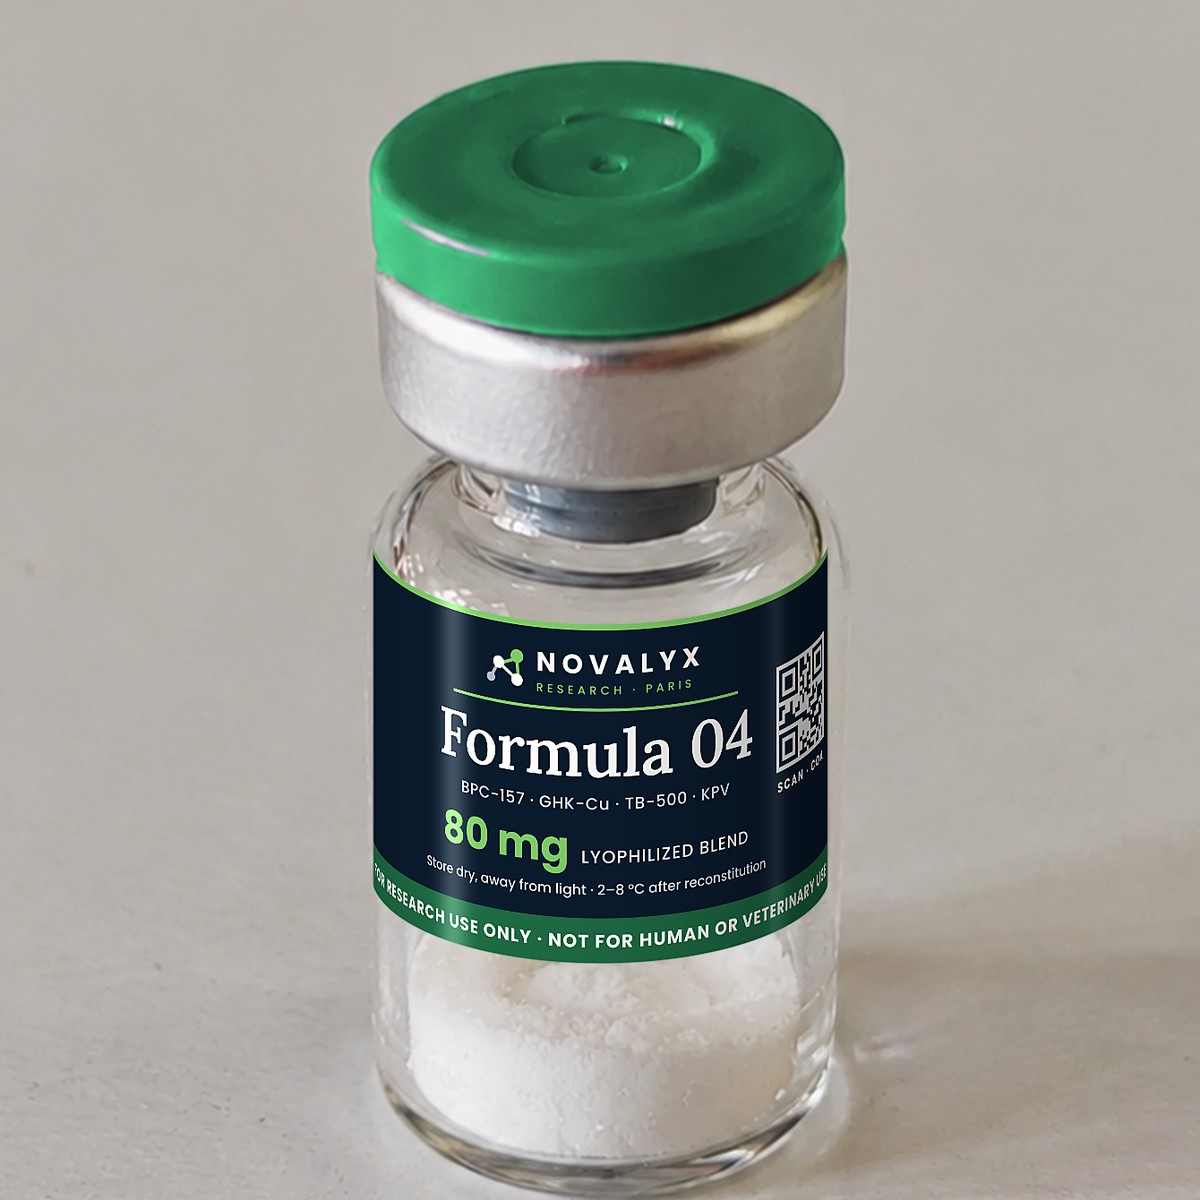
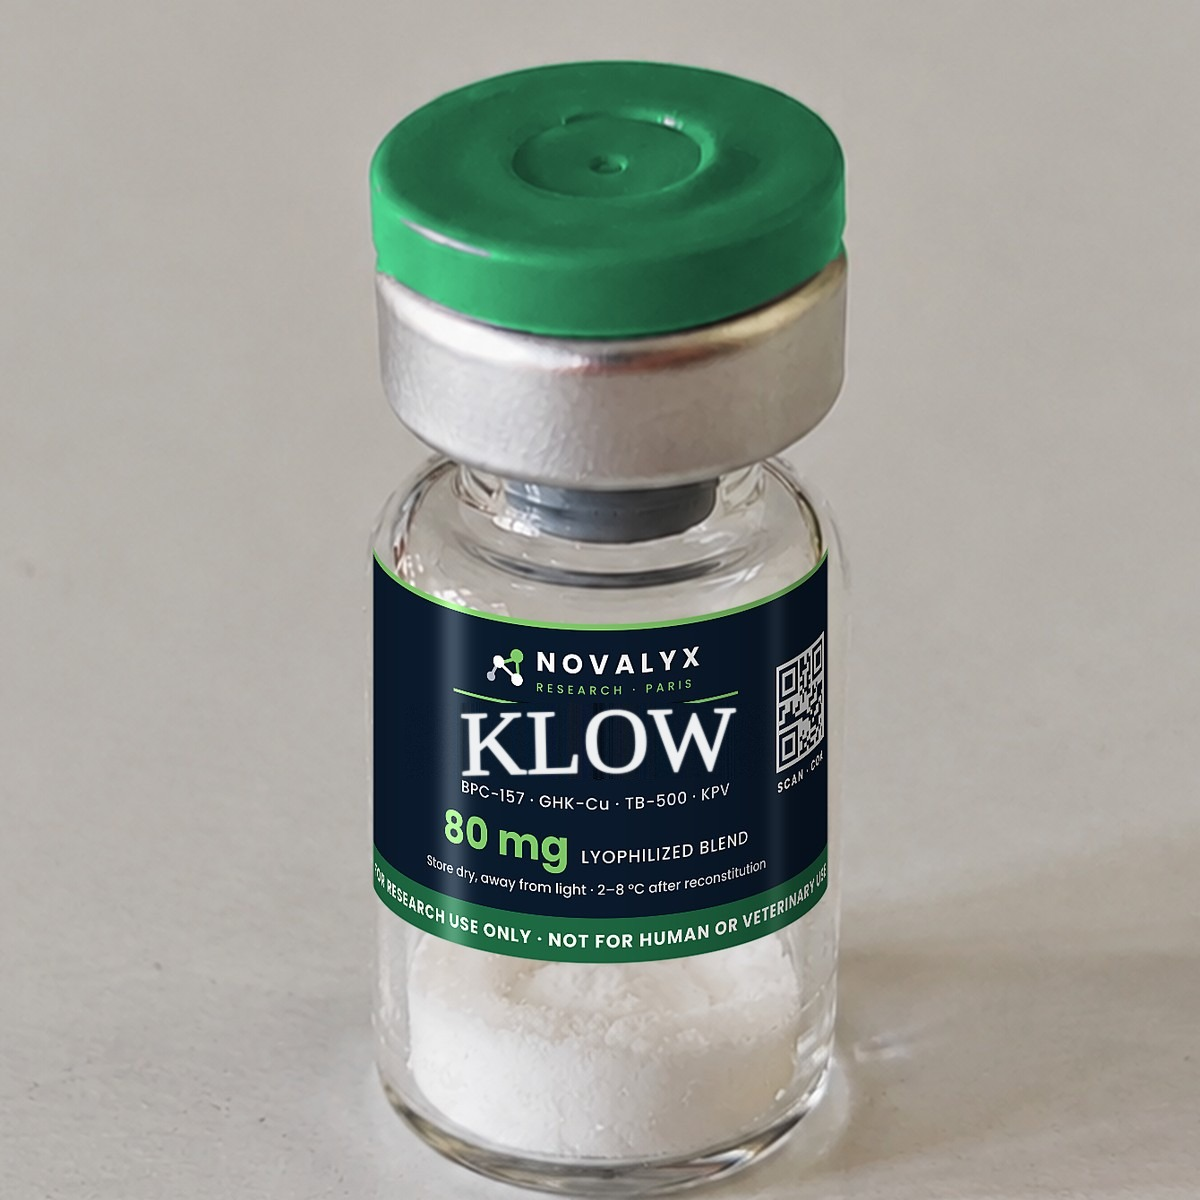
Noms des mélanges : GLOW, KLOW, PULSE, Twin Stack, CagriSema, S², TRIA (+ étiquettes, Formula 01 fusionnée dans Twin Stack)
Claude-Session: https://claude.ai/code/session_01PzS3BkrYWEr8UmzWCxH8az

Changed region(s): [[0.37, 0.5858, 0.6475, 0.6475]]

diff --git a/src/App.jsx b/src/App.jsx
@@ -985,30 +985,12 @@ const PRODUCTS = [
 
   /* ─────────── NOVALYX SIGNATURE BLENDS ─────────── */
   {
-    id: "formula01",
-    name: "Novalyx Formula 01",
-    tag: "REGENERATIVE RESEARCH BLEND",
-    category: "Signature Blends",
-    desc: "Novalyx Formula 01 is a proprietary research blend containing BPC-157 (10mg) and TB-500 (10mg) combined in a single lyophilized vial. Formulated for researchers investigating combined regenerative signalling pathways. New batches are submitted for independent analysis by Janoshik.",
-    desc_fr: "Novalyx Formula 01 est un mélange de recherche propriétaire contenant BPC-157 (10mg) et TB-500 (10mg) combinés dans un seul flacon lyophilisé. Formulé pour les chercheurs étudiant les voies de signalisation régénératives combinées. Les nouveaux lots sont soumis à une analyse indépendante par Janoshik.",
-    variants: [
-      { size: "10mg+10mg", price: 79.99 },
-    ],
-    commonSpecs: [
-      { label: "Composition", value: "BPC-157 10mg + TB-500 10mg" },
-      { label: "Format",      value: "Lyophilised vial" },
-      { label: "Purity",      value: "Janoshik HPLC (per batch)" },
-      { label: "Storage",     value: "Dry, room temperature, away from light before reconstitution; 2–8°C after reconstitution" },
-      { label: "COA",         value: "Janoshik (per batch)" },
-    ],
-  },
-  {
     id: "formula02",
-    name: "Novalyx Formula 02",
+    name: "PULSE",
     tag: "GH-RELEASING RESEARCH BLEND",
     category: "Signature Blends",
-    desc: "Novalyx Formula 02 is a proprietary research blend containing CJC-1295 (5mg, no DAC) and Ipamorelin (5mg) in a single lyophilized vial. Formulated for researchers investigating GH-releasing pathways in an integrated protocol.",
-    desc_fr: "Novalyx Formula 02 est un mélange de recherche propriétaire contenant CJC-1295 (5mg, sans DAC) et Ipamorelin (5mg) dans un seul flacon lyophilisé. Formulé pour les chercheurs étudiant les voies de libération de GH dans un protocole intégré.",
+    desc: "PULSE is a proprietary research blend containing CJC-1295 (5mg, no DAC) and Ipamorelin (5mg) in a single lyophilized vial. Formulated for researchers investigating GH-releasing pathways in an integrated protocol.",
+    desc_fr: "PULSE est un mélange de recherche propriétaire contenant CJC-1295 (5mg, sans DAC) et Ipamorelin (5mg) dans un seul flacon lyophilisé. Formulé pour les chercheurs étudiant les voies de libération de GH dans un protocole intégré.",
     variants: [
       { size: "5mg+5mg", price: 64.99 },
     ],
@@ -1022,11 +1004,11 @@ const PRODUCTS = [
   },
   {
     id: "formula03",
-    name: "Novalyx Formula 03",
+    name: "GLOW",
     tag: "REGENERATIVE TRIPLE BLEND",
     category: "Signature Blends",
-    desc: "Novalyx Formula 03 is our flagship triple-peptide research blend containing BPC-157 (10mg), GHK-Copper (50mg), and TB-500 (10mg) in a single lyophilized vial. Formulated for researchers investigating comprehensive regenerative signalling across multiple pathways simultaneously.",
-    desc_fr: "Novalyx Formula 03 est notre mélange de recherche phare à triple peptide contenant BPC-157 (10mg), GHK-Cuivre (50mg) et TB-500 (10mg) dans un seul flacon lyophilisé. Formulé pour les chercheurs étudiant la signalisation régénérative complète à travers plusieurs voies simultanément.",
+    desc: "GLOW is our flagship triple-peptide research blend containing BPC-157 (10mg), GHK-Copper (50mg), and TB-500 (10mg) in a single lyophilized vial. Formulated for researchers investigating comprehensive regenerative signalling across multiple pathways simultaneously.",
+    desc_fr: "GLOW est notre mélange de recherche phare à triple peptide contenant BPC-157 (10mg), GHK-Cuivre (50mg) et TB-500 (10mg) dans un seul flacon lyophilisé. Formulé pour les chercheurs étudiant la signalisation régénérative complète à travers plusieurs voies simultanément.",
     variants: [
       { size: "70mg total", price: 79.99 },
     ],
@@ -1062,11 +1044,11 @@ const PRODUCTS = [
   },
   {
     id: "formula04",
-    name: "Novalyx Formula 04",
+    name: "KLOW",
     tag: "COMPLETE RESEARCH COMPLEX",
     category: "Signature Blends",
-    desc: "Novalyx Formula 04 is our premium four-peptide research complex containing BPC-157 (10mg), GHK-Copper (50mg), TB-500 (10mg), and KPV (10mg) in a single lyophilized vial. The most comprehensive regenerative research blend in our catalog.",
-    desc_fr: "Novalyx Formula 04 est notre complexe de recherche premium à quatre peptides contenant BPC-157 (10mg), GHK-Cuivre (50mg), TB-500 (10mg) et KPV (10mg) dans un seul flacon lyophilisé. Le mélange de recherche régénératif le plus complet de notre catalogue.",
+    desc: "KLOW is our premium four-peptide research complex containing BPC-157 (10mg), GHK-Copper (50mg), TB-500 (10mg), and KPV (10mg) in a single lyophilized vial. The most comprehensive regenerative research blend in our catalog.",
+    desc_fr: "KLOW est notre complexe de recherche premium à quatre peptides contenant BPC-157 (10mg), GHK-Cuivre (50mg), TB-500 (10mg) et KPV (10mg) dans un seul flacon lyophilisé. Le mélange de recherche régénératif le plus complet de notre catalogue.",
     variants: [
       { size: "80mg total", price: 84.99 },
     ],
@@ -1184,14 +1166,14 @@ const PRODUCTS = [
   },
   {
     id: "novalyxformula06",
-    name: "Novalyx Formula 06",
+    name: "Twin Stack",
     tag: "REGENERATIVE RESEARCH BLEND",
     category: "Signature Blends",
-    desc: "Novalyx Formula 06 is supplied exclusively for in-vitro laboratory research. Each vial contains lyophilized compound. Not a medicine, supplement, or cosmetic. Not for human or veterinary use.",
-    desc_fr: "Le Novalyx Formula 06 est fourni exclusivement pour la recherche in-vitro en laboratoire. Chaque flacon contient un composé lyophilisé. Pas un médicament, complément ou cosmétique. Pas pour usage humain ou vétérinaire.",
+    desc: "Twin Stack is a research blend containing BPC-157 and TB-500 combined in a single lyophilised vial, in two sizes (5mg + 5mg or 10mg + 10mg). Supplied exclusively for in-vitro laboratory research. Not a medicine, supplement, or cosmetic. Not for human or veterinary use.",
+    desc_fr: "Twin Stack est un mélange de recherche contenant du BPC-157 et du TB-500 réunis dans un seul flacon lyophilisé, en deux formats (5 mg + 5 mg ou 10 mg + 10 mg). Fourni exclusivement pour la recherche in-vitro en laboratoire. Pas un médicament, complément ou cosmétique. Pas pour usage humain ou vétérinaire.",
     variants: [
       { size: "10mg total (BPC5+TB5)", price: 64.99 },
-      { size: "20mg total (BPC10+TB10)", price: 109.99 },
+      { size: "20mg total (BPC10+TB10)", price: 79.99 },
     ],
     commonSpecs: [
       { label: "Format",     value: "Lyophilised vial" },
@@ -1202,11 +1184,11 @@ const PRODUCTS = [
   },
   {
     id: "novalyxformula07cagrisema",
-    name: "Novalyx Formula 07 (Cagri+Sema)",
+    name: "CagriSema",
     tag: "REGENERATIVE RESEARCH BLEND",
     category: "Signature Blends",
-    desc: "Novalyx Formula 07 (Cagri+Sema) is supplied exclusively for in-vitro laboratory research. Each vial contains lyophilized compound. Not a medicine, supplement, or cosmetic. Not for human or veterinary use.",
-    desc_fr: "Le Novalyx Formula 07 (Cagri+Sema) est fourni exclusivement pour la recherche in-vitro en laboratoire. Chaque flacon contient un composé lyophilisé. Pas un médicament, complément ou cosmétique. Pas pour usage humain ou vétérinaire.",
+    desc: "CagriSema is supplied exclusively for in-vitro laboratory research. Each vial contains lyophilized compound. Not a medicine, supplement, or cosmetic. Not for human or veterinary use.",
+    desc_fr: "Le CagriSema est fourni exclusivement pour la recherche in-vitro en laboratoire. Chaque flacon contient un composé lyophilisé. Pas un médicament, complément ou cosmétique. Pas pour usage humain ou vétérinaire.",
     variants: [
       { size: "2.5mg+2.5mg", price: 64.99 },
       { size: "5mg+5mg", price: 109.99 },
@@ -1221,11 +1203,11 @@ const PRODUCTS = [
 
   {
     id: "novalyxformula08semaxselank",
-    name: "Novalyx Formula 08 (Semax + Selank)",
+    name: "S²",
     tag: "NEUROPEPTIDE RESEARCH",
     category: "Signature Blends",
-    desc: "Novalyx Formula 08 (Semax + Selank) is supplied exclusively for in-vitro laboratory research. Each vial contains a lyophilised peptide. The Janoshik analysis report is published once the batch has been tested. Not a medicine, supplement, or cosmetic. Not for human or veterinary use.",
-    desc_fr: "Novalyx Formula 08 (Semax + Selank) est fourni exclusivement pour la recherche in-vitro en laboratoire. Chaque flacon contient un composé lyophilisé. Le rapport d'analyse Janoshik est publié dès que le lot a été testé. Pas un médicament, complément ou cosmétique. Pas pour usage humain ou vétérinaire.",
+    desc: "S² is supplied exclusively for in-vitro laboratory research. Each vial contains a lyophilised peptide. The Janoshik analysis report is published once the batch has been tested. Not a medicine, supplement, or cosmetic. Not for human or veterinary use.",
+    desc_fr: "S² est fourni exclusivement pour la recherche in-vitro en laboratoire. Chaque flacon contient un composé lyophilisé. Le rapport d'analyse Janoshik est publié dès que le lot a été testé. Pas un médicament, complément ou cosmétique. Pas pour usage humain ou vétérinaire.",
     variants: [
       { size: "10mg+10mg", price: 69.99 },
     ],
@@ -1238,11 +1220,11 @@ const PRODUCTS = [
   },
   {
     id: "novalyxformula09glp3rtcagri",
-    name: "Novalyx Formula 09 (GLP-3RT + Cagrilintide)",
+    name: "TRIA",
     tag: "MULTI-RECEPTOR RESEARCH",
     category: "Signature Blends",
-    desc: "Novalyx Formula 09 (GLP-3RT + Cagrilintide) is supplied exclusively for in-vitro laboratory research. Each vial contains a lyophilised peptide. The Janoshik analysis report is published once the batch has been tested. Not a medicine, supplement, or cosmetic. Not for human or veterinary use.",
-    desc_fr: "Novalyx Formula 09 (GLP-3RT + Cagrilintide) est fourni exclusivement pour la recherche in-vitro en laboratoire. Chaque flacon contient un composé lyophilisé. Le rapport d'analyse Janoshik est publié dès que le lot a été testé. Pas un médicament, complément ou cosmétique. Pas pour usage humain ou vétérinaire.",
+    desc: "TRIA is supplied exclusively for in-vitro laboratory research. Each vial contains a lyophilised peptide. The Janoshik analysis report is published once the batch has been tested. Not a medicine, supplement, or cosmetic. Not for human or veterinary use.",
+    desc_fr: "TRIA est fourni exclusivement pour la recherche in-vitro en laboratoire. Chaque flacon contient un composé lyophilisé. Le rapport d'analyse Janoshik est publié dès que le lot a été testé. Pas un médicament, complément ou cosmétique. Pas pour usage humain ou vétérinaire.",
     variants: [
       { size: "5mg+5mg", price: 74.99 },
     ],
@@ -4059,12 +4041,12 @@ const BOT_KB = {
      "L'afamélanotide est autorisé sous forme d'implant (marque Scenesse) pour une indication précise (protoporphyrie érythropoïétique) dans l'UE et aux États-Unis. Le produit Novalyx est un composé de recherche, pas ce médicament."],
     ["Synthetic analogue of α-MSH, known as afamelanotide ([Nle4, D-Phe7]-α-MSH), an agonist of the MC1R receptor.",
      "Afamelanotide is authorised as an implant (brand Scenesse) for a specific indication (erythropoietic protoporphyria) in the EU and the United States. The Novalyx product is a research compound, not that medicine."]),
-  novalyxformula08semaxselank: K(["formula 08", "formule 08", "semax selank", "semax + selank", "selank semax"],
+  novalyxformula08semaxselank: K(["s2", "s²", "s carre", "formula 08", "formule 08", "semax selank", "semax + selank", "selank semax"],
     ["Mélange de deux heptapeptides : le Semax, analogue du fragment ACTH(4-10), et le Selank, analogue de la tuftsine. Chacun est étudié pour ses effets sur la neuromodulation.",
      "Le Semax et le Selank sont autorisés comme médicaments en Russie (voie nasale) ; ni l'un ni l'autre n'est autorisé dans l'Union européenne ou aux États-Unis."],
     ["Blend of two heptapeptides: Semax, an analogue of the ACTH(4-10) fragment, and Selank, an analogue of tuftsin. Each is studied for its neuromodulatory effects.",
      "Semax and Selank are authorised as medicines in Russia (nasal route); neither is authorised in the European Union or the United States."]),
-  novalyxformula09glp3rtcagri: K(["formula 09", "formule 09", "glp-3rt cagrilintide", "retatrutide cagrilintide", "reta cagri"],
+  novalyxformula09glp3rtcagri: K(["tria", "formula 09", "formule 09", "glp-3rt cagrilintide", "retatrutide cagrilintide", "reta cagri"],
     ["Mélange de GLP-3RT (agoniste des récepteurs GLP-1, GIP et glucagon) et de cagrilintide (analogue de l'amyline à longue durée d'action), deux molécules en développement clinique.",
      "Les deux composants sont des molécules expérimentales, non autorisées comme médicaments."],
     ["Blend of GLP-3RT (GLP-1, GIP and glucagon receptor agonist) and cagrilintide (long-acting amylin analogue), two molecules in clinical development.",
@@ -4219,28 +4201,23 @@ const BOT_KB = {
      "Réactif de recherche ; non autorisé comme médicament."],
     ["Truncated form of IGF-1 (des(1-3)IGF-1) lacking the first three amino acids, with reduced affinity for IGFBPs and enhanced activity at the IGF-1 receptor in culture. It occurs naturally in some tissues, including the brain.",
      "Research reagent; not authorised as a medicine."]),
-  formula01: K(["formula 01", "formula 1", "formule 01", "formule 1", "f01", "f1"],
-    ["Mélange de recherche Novalyx de deux composés : BPC-157 (10 mg) + TB-500 (10 mg) dans un même flacon lyophilisé. Voir les fiches BPC-157 et TB-500 pour la nature de chaque composant.",
-     "Mélange propriétaire de composés de recherche ; aucun statut de médicament. Les statuts de ses composants sont ceux décrits dans leurs fiches."],
-    ["Novalyx research blend of two compounds: BPC-157 (10 mg) + TB-500 (10 mg) in a single lyophilised vial. See the BPC-157 and TB-500 entries for the nature of each component.",
-     "Proprietary blend of research compounds; no medicine status. The status of its components is as described in their own entries."]),
-  formula02: K(["formula 02", "formula 2", "formule 02", "formule 2", "f02", "f2"],
+  formula02: K(["pulse", "cjc ipa", "cjc ipamorelin", "formula 02", "formula 2", "formule 02", "formule 2", "f02", "f2"],
     ["Mélange de recherche Novalyx de deux composés : CJC-1295 sans DAC (5 mg) + ipamoréline (5 mg) dans un même flacon lyophilisé. Voir leurs fiches pour la nature de chaque composant.",
      "Mélange propriétaire de composés de recherche ; aucun statut de médicament. Les statuts de ses composants sont ceux décrits dans leurs fiches."],
     ["Novalyx research blend of two compounds: CJC-1295 no DAC (5 mg) + ipamorelin (5 mg) in a single lyophilised vial. See their entries for the nature of each component.",
      "Proprietary blend of research compounds; no medicine status. The status of its components is as described in their own entries."]),
-  formula03: K(["formula 03", "formula 3", "formule 03", "formule 3", "f03", "f3"],
+  formula03: K(["glow", "glow stack", "formula 03", "formula 3", "formule 03", "formule 3", "f03", "f3"],
     ["Mélange de recherche Novalyx de trois composés : BPC-157 (10 mg) + GHK-Cu (50 mg) + TB-500 (10 mg) dans un même flacon lyophilisé. Voir leurs fiches pour la nature de chaque composant.",
      "Mélange propriétaire de composés de recherche ; aucun statut de médicament. Les statuts de ses composants sont ceux décrits dans leurs fiches."],
     ["Novalyx research blend of three compounds: BPC-157 (10 mg) + GHK-Cu (50 mg) + TB-500 (10 mg) in a single lyophilised vial. See their entries for the nature of each component.",
      "Proprietary blend of research compounds; no medicine status. The status of its components is as described in their own entries."]),
-  formula04: K(["formula 04", "formula 4", "formule 04", "formule 4", "f04", "f4"],
+  formula04: K(["klow", "klow stack", "formula 04", "formula 4", "formule 04", "formule 4", "f04", "f4"],
     ["Mélange de recherche Novalyx de quatre composés : BPC-157 (10 mg) + GHK-Cu (50 mg) + TB-500 (10 mg) + KPV (10 mg) dans un même flacon lyophilisé. Voir leurs fiches pour la nature de chaque composant.",
      "Mélange propriétaire de composés de recherche ; aucun statut de médicament. Les statuts de ses composants sont ceux décrits dans leurs fiches."],
     ["Novalyx research blend of four compounds: BPC-157 (10 mg) + GHK-Cu (50 mg) + TB-500 (10 mg) + KPV (10 mg) in a single lyophilised vial. See their entries for the nature of each component.",
      "Proprietary blend of research compounds; no medicine status. The status of its components is as described in their own entries."]),
-  novalyxformula06: K(["formula 06", "formula 6", "formule 06", "formule 6", "f06", "f6"],
-    ["Mélange de recherche Novalyx de deux composés : BPC-157 + TB-500, en deux conditionnements (10 mg au total : 5 mg + 5 mg ; 20 mg au total : 10 mg + 10 mg). Voir les fiches BPC-157 et TB-500.",
+  novalyxformula06: K(["twin stack", "twin", "wolverine", "bpc tb", "bpc 157 tb 500", "formula 01", "formula 1", "formule 01", "formula 06", "formula 6", "formule 06", "formule 6", "f06", "f6"],
+    ["Twin Stack : mélange de recherche Novalyx de deux composés, BPC-157 + TB-500, en deux conditionnements (10 mg au total : 5 mg + 5 mg ; 20 mg au total : 10 mg + 10 mg). Voir les fiches BPC-157 et TB-500.",
      "Mélange propriétaire de composés de recherche ; aucun statut de médicament. Les statuts de ses composants sont ceux décrits dans leurs fiches."],
     ["Novalyx research blend of two compounds: BPC-157 + TB-500, in two sizes (10 mg total: 5 mg + 5 mg; 20 mg total: 10 mg + 10 mg). See the BPC-157 and TB-500 entries.",
      "Proprietary blend of research compounds; no medicine status. The status of its components is as described in their own entries."]),
